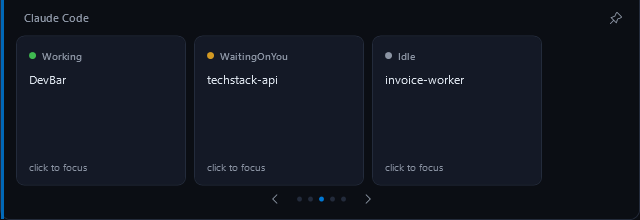
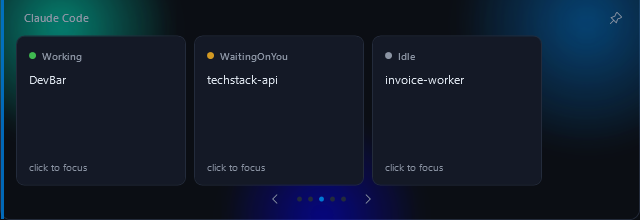
Add Liquid Glass mesh-gradient layer, accessibility fallback, and simplify installer build
- New mesh-gradient blob layer behind the expanded card: three soft,
  slowly-drifting radial gradients in hues rotated off the live Windows
  accent color (ColorMath.cs), each blurred at a literal radius of 24
  (WPF BlurEffect, which does expose a real pixel radius, unlike the OS
  Acrylic API). Animations are GPU-composited transforms — measured
  0.0% CPU even while actively drifting — but still follow the same
  expand/collapse discipline as the rest of the app: they stop the
  instant the bar collapses.
- Accessibility fallback: AccessibilityHelper.PrefersReducedTransparency()
  reads Windows' real "Transparency effects" setting
  (UISettings.AdvancedEffectsEnabled) and swaps in a fully opaque panel
  — no Acrylic blur, no mesh gradient — when it's off. Verified against
  the actual OS setting, not simulated.
- README is explicit about what "Liquid Glass" maps to on Windows and
  what it deliberately doesn't do: no live desktop-color sampling for
  the tint (that would mean continuous screen-capture, real ongoing
  CPU cost of the exact kind this app exists to avoid).
- scripts/build-installer.ps1: one command instead of two, finds
  dotnet/ISCC.exe itself (with a documented fallback path for the
  classic "dotnet not recognized" case right after a fresh SDK
  install), replacing the README's old copy-paste-and-edit-a-path
  instructions.
- README install section fixed: correct dotnet SDK install command,
  PATH-refresh troubleshooting note, real repo URL instead of
[…]

Changed region(s): [[0.75, 0.0, 1.0, 0.5455], [0.0, 0.0, 0.25, 0.4909], [0.375, 0.6818, 0.625, 1.0]]

diff --git a/src/DevBar/BarWindow.xaml b/src/DevBar/BarWindow.xaml
@@ -24,6 +24,50 @@
                 <ColumnDefinition Width="*"/>
             </Grid.ColumnDefinitions>
 
+            <!-- "Liquid glass" mesh: three soft, slowly-drifting accent-hued
+                 blobs behind everything else, each blurred at radius 24. This
+                 is what gives the surface its shifting, organic color — real
+                 backdrop blur (GlassEffect.cs) makes the *desktop* behind the
+                 bar illegible; this layer is what makes the *bar itself* feel
+                 alive. Built from our own accent color, not sampled from live
+                 desktop pixels — continuous screen-capture-based color
+                 sampling would cost real CPU on every frame, the same tax
+                 that made permanent blur-behind a non-starter (see
+                 GlassEffect.cs). Animations only run while expanded, same
+                 discipline as the blur itself. Skipped entirely when Windows'
+                 "Transparency effects" setting is off — see ApplyGlassMode.
+                 ClipToBounds="True" on Panel keeps every blob inside the
+                 rounded shape. -->
+            <Grid x:Name="MeshGradient" Grid.ColumnSpan="2" Opacity="0" IsHitTestVisible="False">
+                <Ellipse x:Name="Blob1" Width="230" Height="230" HorizontalAlignment="Left" VerticalAlignment="Top"
+                         Margin="-60,-90,0,0">
+                    <Ellipse.RenderTransform>
+                        <TranslateTransform x:Name="Blob1Tx"/>
+                    </Ellipse.RenderTransform>
+                    <Ellipse.Effect>
+                        <BlurEffect Radius="24"/>
+                    </Ellipse.Effect>
+                </Ellipse>
+                <Ellipse x:Name="Blob2" Width="260" Height="260" HorizontalAlignment="Right" VerticalAlignment="Top"
+                         Margin="0,-110,-80,0">
+                    <Ellipse.RenderTransform>
+                        <TranslateTransform x:Name="Blob2Tx"/>
+                    </Ellipse.RenderTransform>
+                    <Ellipse.Effect>
+                        <BlurEffect Radius="24"/>
+                    </Ellipse.Effect>
+                </Ellipse>
+                <Ellipse x:Name="Blob3" Width="200" Height="200" HorizontalAlignment="Center" VerticalAlignment="Bottom"
+                         Margin="0,0,0,-100">
+                    <Ellipse.RenderTransform>
+                        <TranslateTransform x:Name="Blob3Tx"/>
+                    </Ellipse.RenderTransform>
+                    <Ellipse.Effect>
+                        <BlurEffect Radius="24"/>
+                    </Ellipse.Effect>
+                </Ellipse>
+            </Grid>
+
             <!-- left accent rail, fades in together with the expanded content -->
             <Border x:Name="AccentRail" Grid.Column="0" Background="{DynamicResource BrushAccent}" Opacity="0"/>
 

diff --git a/src/DevBar/Themes/Tokens.xaml b/src/DevBar/Themes/Tokens.xaml
@@ -16,6 +16,10 @@
          GlassEffect.cs) — genuinely blurred, so nothing behind is legible
          through it, unlike a plain alpha blend over crisp desktop pixels. -->
     <SolidColorBrush x:Key="BrushPanelGlass" Color="#C80B0E14"/>
+    <!-- Accessibility fallback when Windows' "Transparency effects" setting
+         is off (see Accessibility.PrefersReducedTransparency) — fully
+         opaque, no blur, no mesh-gradient layer. -->
+    <SolidColorBrush x:Key="BrushPanelOpaque" Color="{StaticResource ColBg}"/>
     <SolidColorBrush x:Key="BrushBgElevated" Color="{StaticResource ColBgElevated}"/>
     <SolidColorBrush x:Key="BrushHairline" Color="{StaticResource ColHairline}"/>
     <SolidColorBrush x:Key="BrushText" Color="{StaticResource ColText}"/>

diff --git a/src/DevBar/BarWindow.xaml.cs b/src/DevBar/BarWindow.xaml.cs
@@ -47,11 +47,19 @@ public partial class BarWindow : Window
     // a developer's cursor while they're still looking at it.
     private const int HideDebounceMs = 220;
 
+    private readonly bool _reduceTransparency;
+
     public BarWindow(Config config, StartupArgs args)
     {
         _config = config;
         _args = args;
         InitializeComponent();
+
+        _reduceTransparency = AccessibilityHelper.PrefersReducedTransparency();
+        if (_reduceTransparency)
+            Panel.Background = (Brush)FindResource("BrushPanelOpaque");
+        else
+            SetupMeshGradient();
 
         _modules = ModuleHost.Build(config, args);
 
@@ -170,6 +178,64 @@ public partial class BarWindow : Window
         return (IntPtr)(inside ? HTCLIENT : HTTRANSPARENT);
     }
 
+    // ---------------- liquid glass: mesh-gradient blob layer ----------------
+
+    /// <summary>
+    /// Builds the three blob fills from the live accent color (hue-rotated
+    /// ±35° for a multi-color "mesh" feel) — done once, since the accent
+    /// color itself only changes if the user changes their Windows theme.
+    /// </summary>
+    private void SetupMeshGradient()
+    {
+        var accent = ((SolidColorBrush)FindResource("BrushAccent")).Color;
+
+        Blob1.Fill = BlobBrush(ColorMath.RotateHue(accent, -35, 150));
+        Blob2.Fill = BlobBrush(ColorMath.RotateHue(accent, 0, 130));
+        Blob3.Fill = BlobBrush(ColorMath.RotateHue(accent, 35, 150));
+    }
+
+    private static RadialGradientBrush BlobBrush(Color c)
+    {
+        var brush = new RadialGradientBrush();
+        brush.GradientStops.Add(new GradientStop(c, 0.0));
+        brush.GradientStops.Add(new GradientStop(Color.FromArgb(0, c.R, c.G, c.B), 1.0));
+        brush.Freeze();
+        return brush;
+    }
+
+    /// <summary>
+    /// Slow, organic drift — each blob gets a different duration/range so they
+    /// never sync up into something mechanical. Only ever running while the
+    /// bar is expanded (see Expand/Collapse): a Forever-repeating animation is
+    /// cheap per-frame but it does keep the compositor rendering continuously,
+    /// which is exactly the kind of "always on" cost this app avoids at idle.
+    /// </summary>
+    private void StartBlobDrift()
+    {
+        Drift(Blob1Tx, 18, 10, 7.5);
+        Drift(Blob2Tx, -16, 14, 9.5);
+        Drift(Blob3Tx, 12, -12, 8.5);
+
+        static void Drift(TranslateTransform tx, double dx, double dy, double seconds)
+        {
+            var ease = new SineEase { EasingMode = EasingMode.EaseInOut };
+            var duration = TimeSpan.FromSeconds(seconds);
+            tx.BeginAnimation(TranslateTransform.XProperty,
+                new DoubleAnimation(0, dx, duration) { AutoReverse = true, RepeatBehavior = RepeatBehavior.Forever, EasingFunction = ease });
+            tx.BeginAnimation(TranslateTransform.YProperty,
+                new DoubleAnimation(0, dy, duration) { AutoReverse = true, RepeatBehavior = RepeatBehavior.Forever, EasingFunction = ease });
+        }
+    }
+
+    private void StopBlobDrift()
+    {
+        foreach (var tx in new[] { Blob1Tx, Blob2Tx, Blob3Tx })
+        {
+            tx.BeginAnimation(TranslateTransform.XProperty, null);
+            tx.BeginAnimation(TranslateTransform.YProperty, null);
+        }
+    }
+
     // ---------------- sizing (only the inner Panel resizes; Window stays fixed) ----------------
 
     private void SetSize(double width, double height, bool animate)
@@ -228,9 +294,15 @@ public partial class BarWindow : Window
         if (_expanded) return;
         _expanded = true;
 
-        // Blur-behind only runs while actually visible/expanded — it costs
-        // real idle CPU if left on, see GlassEffect's doc comment.
-        GlassEffect.Enable(_hwnd, (Color)FindResource("ColBg"), tintOpacity: 200);
+        if (!_reduceTransparency)
+        {
+            // Blur-behind and the mesh-gradient drift only run while actually
+            // visible/expanded — both cost real idle CPU/GPU if left on, see
+            // GlassEffect's doc comment.
+            GlassEffect.Enable(_hwnd, (Color)FindResource("ColBg"), tintOpacity: 200);
+            MeshGradient.BeginAnimation(OpacityProperty, new DoubleAnimation(0, 1, TimeSpan.FromMilliseconds(260)) { BeginTime = TimeSpan.FromMilliseconds(60) });
+            StartBlobDrift();
+        }
 
         SetSize(ExpandedWidth, ExpandedHeight, animate: true);
 
@@ -250,7 +322,12 @@ public partial class BarWindow : Window
         if (!_expanded) return;
         _expanded = false;
 
-        GlassEffect.Disable(_hwnd);
+        if (!_reduceTransparency)
+        {
+            GlassEffect.Disable(_hwnd);
+            MeshGradient.BeginAnimation(OpacityProperty, new DoubleAnimation(1, 0, TimeSpan.FromMilliseconds(120)));
+            StopBlobDrift();
+        }
 
         SetSize(IdleWidth, IdleHeight, animate: true);
 

diff --git a/src/DevBar/Core/ColorMath.cs b/src/DevBar/Core/ColorMath.cs
@@ -1,0 +1,68 @@
+using System.Windows.Media;
+
+namespace DevBar.Core;
+
+/// <summary>Small RGB↔HSL helper used to derive the mesh-gradient blob colors from the live accent color.</summary>
+internal static class ColorMath
+{
+    /// <summary>Returns a copy of <paramref name="c"/> with hue shifted by <paramref name="degrees"/> and a new alpha.</summary>
+    public static Color RotateHue(Color c, double degrees, byte alpha)
+    {
+        var (h, s, l) = ToHsl(c);
+        h = (h + degrees) % 360;
+        if (h < 0) h += 360;
+        var rgb = FromHsl(h, s, l);
+        return Color.FromArgb(alpha, rgb.R, rgb.G, rgb.B);
+    }
+
+    private static (double H, double S, double L) ToHsl(Color c)
+    {
+        double r = c.R / 255.0, g = c.G / 255.0, b = c.B / 255.0;
+        double max = Math.Max(r, Math.Max(g, b)), min = Math.Min(r, Math.Min(g, b));
+        double h = 0, s, l = (max + min) / 2;
+
+        if (max == min)
+        {
+            s = 0;
+        }
+        else
+        {
+            double d = max - min;
+            s = l > 0.5 ? d / (2 - max - min) : d / (max + min);
+            if (max == r) h = (g - b) / d + (g < b ? 6 : 0);
+            else if (max == g) h = (b - r) / d + 2;
+            else h = (r - g) / d + 4;
+            h *= 60;
+        }
+        return (h, s, l);
+    }
+
+    private static (byte R, byte G, byte B) FromHsl(double h, double s, double l)
+    {
+        if (s == 0)
+        {
+            byte v = (byte)Math.Round(l * 255);
+            return (v, v, v);
+        }
+
+        double q = l < 0.5 ? l * (1 + s) : l + s - l * s;
+        double p = 2 * l - q;
+        double hk = h / 360.0;
+
+        double r = HueToRgb(p, q, hk + 1.0 / 3);
+        double g = HueToRgb(p, q, hk);
+        double b = HueToRgb(p, q, hk - 1.0 / 3);
+
+        return ((byte)Math.Round(r * 255), (byte)Math.Round(g * 255), (byte)Math.Round(b * 255));
+    }
+
+    private static double HueToRgb(double p, double q, double t)
+    {
+        if (t < 0) t += 1;
+        if (t > 1) t -= 1;
+        if (t < 1.0 / 6) return p + (q - p) * 6 * t;
+        if (t < 1.0 / 2) return q;
+        if (t < 2.0 / 3) return p + (q - p) * (2.0 / 3 - t) * 6;
+        return p;
+    }
+}

diff --git a/src/DevBar/Core/AccessibilityHelper.cs b/src/DevBar/Core/AccessibilityHelper.cs
@@ -1,0 +1,30 @@
+namespace DevBar.Core;
+
+// Named AccessibilityHelper, not "Accessibility" — that name collides with
+// the built-in COM interop namespace (Accessibility.dll / IAccessible),
+// which WPF projects pull in implicitly and which confuses the compiler
+// into resolving the name as a namespace instead of this class.
+internal static class AccessibilityHelper
+{
+    /// <summary>
+    /// Mirrors Windows' Settings → Accessibility → Visual effects → "Transparency
+    /// effects" toggle. When the user has turned this off, the bar must not use
+    /// Acrylic blur-behind or the mesh-gradient glass layer — both fall back to
+    /// a flat opaque panel. Checked once at startup; a live toggle mid-session
+    /// takes effect on the next launch, not immediately (matches how most
+    /// native apps handle this exact setting).
+    /// </summary>
+    public static bool PrefersReducedTransparency()
+    {
+        try
+        {
+            var ui = new global::Windows.UI.ViewManagement.UISettings();
+            return !ui.AdvancedEffectsEnabled;
+        }
+        catch
+        {
+            // If we can't ask, default to the safer (flat, no blur) option.
+            return true;
+        }
+    }
+}

diff --git a/README.md b/README.md
@@ -24,7 +24,7 @@ DevBar is that. It's a tiny pill docked to the top of your screen — about the 
 
 - **It's small.** DevBar is not a second taskbar. It's ~125px idle, ~640px expanded, centered near the top edge. It never reserves screen real estate, never pushes your windows around, and every pixel outside the pill is click‑through — whatever's under it still works normally.
 - **Hover, not click.** Glance up, it's there. Look away, it's gone. No window to alt‑tab past, no icon to remember. The expand motion is a drop‑down reveal — like a shade unrolling from the pill, not a card growing out of nowhere.
-- **Real glass, not a flat panel.** The expanded card uses genuine Windows compositor blur (Acrylic) behind it — vibrancy like iOS/macOS control panels, not a fake alpha-transparency trick.
+- **Liquid glass, not a flat panel.** The expanded card sits on genuine Windows compositor blur (Acrylic) plus a mesh of soft, slowly-drifting accent-colored blobs (each blurred at radius 24) behind the content — the shifting, organic tint of modern glass UI, built from your own live accent color rather than a static gradient. Respects Windows' **Reduce Transparency** setting — off means a flat opaque panel, no blur, no mesh, automatically.
 - **Modular.** Each capability is a self‑contained module behind a five‑method interface. The bar ships with five; writing a sixth takes an afternoon.
 - **Genuinely lightweight.** Every module is event‑driven or polls only while its card is on screen — nothing runs while the bar is collapsed, **including the blur**, which is switched off at the OS level the instant the bar collapses specifically because live blur is not free (see [Performance](#performance)). Measured on this machine: **0.0% CPU at idle**, ~90–140MB working set. Measured, not asserted.
 
@@ -64,38 +64,47 @@ All captured from the app actually running — nothing mocked up.
 
 ## Install
 
-**Requirements:** Windows 10 2004+ or Windows 11 (x64). No .NET runtime install needed — the installer bundles it.
+**Requirements:** Windows 10 2004+ or Windows 11 (x64).
 
 ### Option A — installer (recommended)
 
-Download `DevBar-Setup-<version>.exe` from [Releases](../../releases) and run it.
+Download `DevBar-Setup-<version>.exe` from [Releases](https://github.com/Vivek-C-Shah/DevBar/releases) and run it.
 
 - **No admin required** — installs to your own user profile (`%LOCALAPPDATA%\Programs\DevBar`), so it's a plain double‑click, no UAC prompt.
+- **No separate .NET install needed** — this build is self‑contained (the runtime is bundled into the exe), unlike Option B below.
 - Adds a **Start Menu entry** — press the Windows key, type `devbar`, hit Enter, exactly like any other installed app.
 - Optional checkbox to launch DevBar automatically at sign‑in.
 - Comes with a clean uninstaller (Settings → Apps, or the Start Menu entry).
 
-To build the installer yourself instead of trusting a downloaded binary:
+To build the installer yourself instead of trusting a downloaded binary, one command does the whole thing (publish + compile):
 
 ```powershell
-git clone https://github.com/<your-org>/devbar.git
-cd devbar
-dotnet publish src\DevBar\DevBar.csproj -c Release -r win-x64 --self-contained true -p:PublishSingleFile=true -p:IncludeNativeLibrariesForSelfExtract=true -o publish
-"C:\Users\<you>\AppData\Local\Programs\Inno Setup 6\ISCC.exe" installer\DevBar.iss
+git clone https://github.com/Vivek-C-Shah/DevBar.git
+cd DevBar
+.\scripts\build-installer.ps1
 ```
 
-Produces `dist\DevBar-Setup-<version>.exe` — the same installer described above. Requires [Inno Setup](https://jrsoftware.org/isinfo.php) (`winget install JRSoftware.InnoSetup`).
+It needs the **.NET 8 SDK** and **Inno Setup** — if either is missing, the script tells you exactly what to install:
+
+```powershell
+winget install Microsoft.DotNet.SDK.8
+winget install JRSoftware.InnoSetup
+```
+
+> **`dotnet` not recognized right after installing the SDK?** winget adds it to your PATH, but a terminal window opened *before* the install won't pick that up — close it and open a new one. (`build-installer.ps1` also falls back to the default install path automatically, so this usually isn't even necessary.)
+
+Produces `dist\DevBar-Setup-<version>.exe` — the same installer described above.
 
 ### Option B — build and run from source (for development)
 
 ```powershell
-git clone https://github.com/<your-org>/devbar.git
-cd devbar
+git clone https://github.com/Vivek-C-Shah/DevBar.git
+cd DevBar
 dotnet build DevBar.sln -c Release
 .\src\DevBar\bin\Release\net8.0-windows10.0.19041.0\DevBar.exe
 ```
 
-This framework-dependent build needs the [.NET 8 Desktop Runtime](https://dotnet.microsoft.com/download/dotnet/8.0) — Windows will prompt to install it if missing. Faster to iterate on than the self-contained publish, but not what you'd hand to someone else to install.
+This framework-dependent build needs the [.NET 8 Desktop Runtime](https://dotnet.microsoft.com/download/dotnet/8.0) installed separately — Windows will prompt for it if missing. Faster to iterate on than the self-contained publish (no packaging step), but not what you'd hand to someone else to install — that's Option A.
 
 ### Debug / demo flags
 
@@ -146,6 +155,16 @@ How it stays there:
 - **Ports and Claude Code session scans run off the UI thread** (`Task.Run`), so a slow `Process.GetProcesses()` on a loaded dev box never stalls the animation.
 - **No AppBar space reservation.** Early builds used the Win32 AppBar API (same mechanism as the taskbar) to reserve the full screen width — it worked, but it's the wrong shape for a tool this small, and it meant every app on the machine had to respect a strip it didn't need to. Current build is a plain topmost window sized to its own content, with `WM_NCHITTEST` making the space around the pill click‑through.
 - **Blur is enabled only while expanded.** Real Windows Acrylic blur-behind is not free — DWM has to keep re-sampling whatever's behind the window for as long as it's on, which measured out to real, sustained idle CPU when left on permanently. `GlassEffect.Enable`/`Disable` are called from `Expand()`/`Collapse()` specifically so the compositor cost only exists for the few seconds the bar is actually on screen, never during the ~99% of the time it sits idle as a small pill.
+- **The mesh-gradient blobs stop drifting when collapsed, too.** Their animations are GPU-composited transforms (cheap — measured 0.0% CPU even while actively drifting), but `StartBlobDrift`/`StopBlobDrift` still follow the same expand/collapse discipline as everything else here: nothing keeps rendering once the bar isn't visible.
+
+### On "Liquid Glass"
+
+Worth being precise about what this actually is, since the ask was for a specific, named design language (Apple's Liquid Glass) and Windows doesn't expose the same primitives macOS/iOS do:
+
+- **Real backdrop blur, yes** — via `SetWindowCompositionAttribute` (Acrylic), genuinely blurring whatever's behind the window at the OS/compositor level.
+- **"Blur radius 24," applied literally** — but to the bar's own mesh-gradient blobs (`BlurEffect Radius="24"` in WPF, which *does* expose a real pixel radius), not to the backdrop blur itself. Windows' Acrylic API doesn't take a radius parameter; its blur amount is fixed by the OS.
+- **"Organic tint that shifts"** — three soft, slowly-drifting radial-gradient blobs in hues rotated off your live Windows accent color, not a static gradient. What it is *not*: literal live-sampling of desktop pixel colors behind the window to drive the tint. That would mean continuous screen-capture + color analysis, which is real, ongoing CPU cost of exactly the kind this app spent most of its effort eliminating — not a trade worth making for a decorative effect.
+- **Accessibility fallback, real** — `AccessibilityHelper.PrefersReducedTransparency()` reads Windows' actual "Transparency effects" setting (Settings → Accessibility → Visual effects) via `UISettings.AdvancedEffectsEnabled` and swaps in a fully opaque panel, no blur, no mesh, when it's off.
 - The working‑set floor (~90MB) is WPF + CLR baseline plus the Windows Runtime projections the accent‑color and Media modules touch once at startup — the honest cost of native UI on .NET, not something the bar wastes ongoing.
 
 Electron would have made the first screen faster to build and the process afterward heavier by 100+MB and non‑zero at idle — that trade is why this is WPF.
